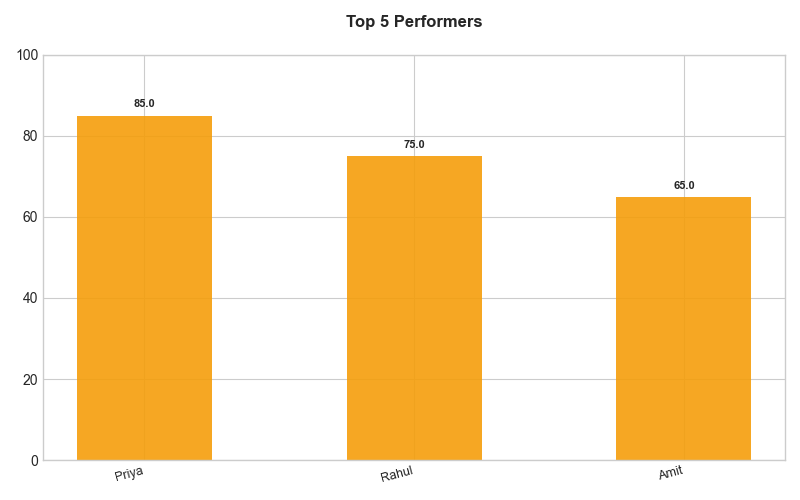
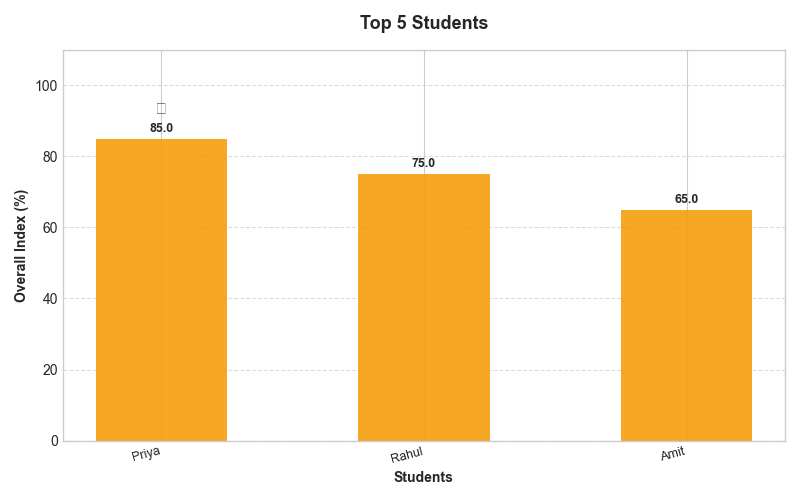
Initial commit

diff --git a/student-performance/analysis.py b/student-performance/analysis.py
@@ -207,12 +207,22 @@ def generate_dashboard_charts(filters={}):
             subjects = [row['subject_name'] for row in bar_data]
             marks = [float(row['avg_marks']) for row in bar_data]
             bars = plt.bar(subjects, marks, color='#6366f1', width=0.6, alpha=0.9)
-            plt.title("Subject Performance Analysis", fontsize=12, fontweight='700', pad=20)
-            plt.ylim(0, 100)
+            
+            # --- IMPROVEMENTS 🔥 ---
+            plt.title("Subject-wise Marks", fontsize=13, fontweight='bold', pad=15)
+            plt.xlabel("Subjects", fontsize=10, fontweight='600')
+            plt.ylabel("Average Marks (%)", fontsize=10, fontweight='600')
+            plt.grid(axis='y', linestyle='--', alpha=0.7)
+            plt.ylim(0, 110)
             plt.xticks(rotation=20, ha='right', fontsize=9)
-            for bar in bars:
-                yval = bar.get_height()
-                plt.text(bar.get_x() + bar.get_width()/2, yval + 1, f'{round(yval, 1)}', ha='center', va='bottom', fontsize=8, fontweight='bold')
+            
+            # Show values and highlight TOP
+            max_val = max(marks) if marks else 0
+            for i, v in enumerate(marks):
+                plt.text(i, v + 1.5, f'{round(v, 1)}', ha='center', fontsize=9, fontweight='bold', color='#1e293b')
+                if v == max_val and v > 0:
+                    plt.text(i, v + 6, "TOP", ha='center', fontsize=8, fontweight='900', color='#4f46e5', 
+                             bbox=dict(facecolor='white', alpha=0.8, edgecolor='#6366f1', boxstyle='round,pad=0.2'))
         else:
             plt.text(0.5, 0.5, "Insufficient Data Records", ha='center', va='center', color='#94a3b8')
         plt.tight_layout()
@@ -267,9 +277,17 @@ def generate_dashboard_charts(filters={}):
             marks = [float(row['avg_marks']) for row in line_data]
             plt.plot(exams, marks, marker='o', markersize=8, color='#6366f1', linewidth=3, markerfacecolor='white', markeredgewidth=2)
             plt.fill_between(exams, marks, alpha=0.1, color='#6366f1')
-            plt.title("Institutional Performance Trend", fontsize=12, fontweight='700', pad=20)
-            plt.ylim(0, 100)
-            plt.grid(True, linestyle='--', alpha=0.5)
+            
+            # --- IMPROVEMENTS 🔥 ---
+            plt.title("Performance Trend", fontsize=13, fontweight='bold', pad=15)
+            plt.xlabel("Exam Type", fontsize=10, fontweight='600')
+            plt.ylabel("Average Marks (%)", fontsize=10, fontweight='600')
+            plt.grid(True, linestyle='--', alpha=0.7)
+            plt.ylim(0, 110)
+            
+            # Show values
+            for i, v in enumerate(marks):
+                plt.text(i, v + 3, f'{round(v, 1)}', ha='center', fontsize=9, fontweight='bold', color='#1e293b')
         else:
             plt.text(0.5, 0.5, "Insufficient Trend Data", ha='center', va='center', color='#94a3b8')
         plt.tight_layout()
@@ -295,11 +313,21 @@ def generate_dashboard_charts(filters={}):
             names = [row['name'] for row in top_data]
             marks = [float(row['avg_marks']) for row in top_data]
             plt.bar(names, marks, color='#f59e0b', width=0.5, alpha=0.9)
-            plt.title("Top 5 Performers", fontsize=12, fontweight='700', pad=20)
-            plt.ylim(0, 100)
+            
+            # --- IMPROVEMENTS 🔥 ---
+            plt.title("Top 5 Students", fontsize=13, fontweight='bold', pad=15)
+            plt.xlabel("Students", fontsize=10, fontweight='600')
+            plt.ylabel("Overall Index (%)", fontsize=10, fontweight='600')
+            plt.grid(axis='y', linestyle='--', alpha=0.7)
+            plt.ylim(0, 110)
             plt.xticks(rotation=15, ha='right', fontsize=9)
+            
+            # Show values and highlight TOP
+            max_val = max(marks) if marks else 0
             for i, v in enumerate(marks):
-                plt.text(i, v + 2, str(round(v, 1)), ha='center', fontweight='bold', fontsize=8)
+                plt.text(i, v + 2, f'{round(v, 1)}', ha='center', fontweight='bold', fontsize=9)
+                if v == max_val and v > 0:
+                     plt.text(i, v + 7, "🏆", ha='center', fontsize=12)
         else:
             plt.text(0.5, 0.5, "No Rankings Available", ha='center', va='center', color='#94a3b8')
         plt.tight_layout()
@@ -376,19 +404,26 @@ def generate_subject_avg_chart(subject_avg):
         averages = [float(row['avg_marks']) if row['avg_marks'] is not None else 0 for row in subject_avg]
         
         bars = plt.bar(subjects, averages, color='#4F46E5', edgecolor='#3730A3', alpha=0.85, width=0.6)
+        
+        # --- IMPROVEMENTS 🔥 ---
+        plt.title('Subject-wise Average Marks', fontsize=16, fontweight='bold', pad=25)
+        plt.xlabel('Subjects', fontsize=12, fontweight='bold')
+        plt.ylabel('Average Marks', fontsize=12, fontweight='bold')
+        plt.grid(axis='y', linestyle='--', alpha=0.7)
+        plt.ylim(0, 115)
+        plt.xticks(rotation=30, ha='right', fontsize=10)
+        
+        # Show values and highlight TOP
+        max_val = max(averages) if averages else 0
         for bar in bars:
             yval = bar.get_height()
-            plt.text(bar.get_x() + bar.get_width()/2, yval + 1, round(yval, 1), 
+            plt.text(bar.get_x() + bar.get_width()/2, yval + 1.5, round(yval, 1), 
                      ha='center', va='bottom', fontsize=10, fontweight='bold', color='#1E293B')
+            if yval == max_val and yval > 0:
+                 plt.text(bar.get_x() + bar.get_width()/2, yval + 6, "BEST", ha='center', fontsize=9, fontweight='bold', color='#4F46E5')
     else:
         plt.text(0.5, 0.5, 'No Data Available', ha='center', va='center', fontsize=14)
 
-    plt.title('Subject-wise Average Marks', fontsize=16, fontweight='bold', pad=25)
-    plt.xlabel('Subjects', fontsize=12, fontweight='bold')
-    plt.ylabel('Average Marks', fontsize=12, fontweight='bold')
-    plt.ylim(0, 110)
-    plt.xticks(rotation=30, ha='right', fontsize=10)
-    plt.grid(axis='y', linestyle='--', alpha=0.4)
     plt.tight_layout()
     plt.savefig(os.path.join(CHARTS_DIR, 'admin_subject_avg.png'), bbox_inches="tight")
     plt.close()
@@ -423,7 +458,11 @@ def generate_marks_distribution(all_marks):
     plt.figure(figsize=(12, 6), dpi=200)
     
     if all_marks:
-        plt.hist(all_marks, bins=10, range=(0, 100), color='#8B5CF6', edgecolor='#7C3AED', alpha=0.8, rwidth=0.9)
+        n, bins, patches = plt.hist(all_marks, bins=10, range=(0, 100), color='#8B5CF6', edgecolor='#7C3AED', alpha=0.8, rwidth=0.9)
+        # Add labels to histogram bins
+        for i in range(len(n)):
+            if n[i] > 0:
+                plt.text(bins[i] + (bins[i+1]-bins[i])/2, n[i] + 0.2, int(n[i]), ha='center', fontweight='bold')
     else:
         plt.text(0.5, 0.5, 'No Data Available', ha='center', va='center', fontsize=14)
         
@@ -431,7 +470,7 @@ def generate_marks_distribution(all_marks):
     plt.xlabel('Marks (Range)', fontsize=12, fontweight='bold')
     plt.ylabel('Number of Students', fontsize=12, fontweight='bold')
     plt.xticks(range(0, 101, 10))
-    plt.grid(axis='y', linestyle='--', alpha=0.4)
+    plt.grid(axis='y', linestyle='--', alpha=0.7)
     plt.tight_layout()
     plt.savefig(os.path.join(CHARTS_DIR, 'admin_distribution.png'), bbox_inches="tight")
     plt.close()
@@ -639,19 +678,24 @@ def generate_student_charts_new(enrollment_no):
         subjects = [item['subject'] for item in subjects_data]
         totals = [item['total'] for item in subjects_data]
         
-        plt.bar(subjects, totals, color='#6366f1', alpha=0.9, edgecolor='white', linewidth=1)
+        bars = plt.bar(subjects, totals, color='#6366f1', alpha=0.9, edgecolor='white', linewidth=1)
         
+        # --- IMPROVEMENTS 🔥 ---
         plt.title('Subject-wise Performance Analysis', fontsize=18, fontweight='bold', pad=30, color='#1e293b')
         plt.xlabel('Academic Subjects', fontsize=12, fontweight='bold', color='#64748b')
         plt.ylabel('Total Marks Obtained', fontsize=12, fontweight='bold', color='#64748b')
         plt.xticks(rotation=20, ha='right', fontsize=10)
         plt.yticks(fontsize=10)
-        plt.grid(axis='y', linestyle='--', alpha=0.4)
-        plt.ylim(0, 105)
+        plt.grid(axis='y', linestyle='--', alpha=0.7)
+        plt.ylim(0, 115)
         
-        # Add value labels on top of bars
+        # Add value labels on top of bars and highlight BEST
+        max_val = max(totals) if totals else 0
         for i, v in enumerate(totals):
             plt.text(i, v + 2, str(v), ha='center', fontsize=10, fontweight='bold', color='#4f46e5')
+            if v == max_val and v > 0:
+                plt.text(i, v + 7, "BEST SCORE", ha='center', fontsize=9, fontweight='bold', color='#6366f1',
+                         bbox=dict(facecolor='white', alpha=0.9, edgecolor='#6366f1', boxstyle='round,pad=0.3'))
             
         plt.tight_layout()
         plt.savefig(os.path.join(CHARTS_DIR, f'student_{enrollment_no}_bar.png'), bbox_inches="tight")
